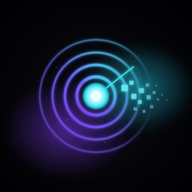
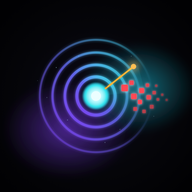
Своя иконка Spectra: янтарный луч и красные пиксели
Раньше иконка была общей с Probe Lab, и на домашнем экране программы
не отличались. Рисунок прежний, перекрашены луч с точкой на конце
(янтарный) и разлетающиеся пиксели (красные). iOS AppIcon, передний слой
адаптивной иконки Android и все плотности, иконка в README; README и
CHANGELOG больше не говорят об одной иконке на две программы.

Changed region(s): [[0.5312, 0.3125, 0.875, 0.5938]]

diff --git a/README.md b/README.md
@@ -285,7 +285,8 @@ card only the device's maker and model (or a link's domain) is searched: never
 an IP or MAC address, a network name or a name someone gave their device.
 Nothing from recorded traffic is searched for.
 
-Spectra and Probe Lab, its App Store sibling, share one icon.
+Spectra and Probe Lab, its App Store sibling, share one icon design: Spectra's
+has an amber beam and red pixels, Probe Lab's is all cyan.
 
 ## Recording traffic
 

diff --git a/CHANGELOG.md b/CHANGELOG.md
@@ -33,6 +33,8 @@ Assistant:
 Other:
 
 - The app opens on the tab it was left on.
+- The icon is now Spectra's own: the beam is amber and the scattering pixels
+  are red, so it no longer looks the same as Probe Lab's on the home screen.
 
 ## 1.3.0 (2026-11-25)
 
